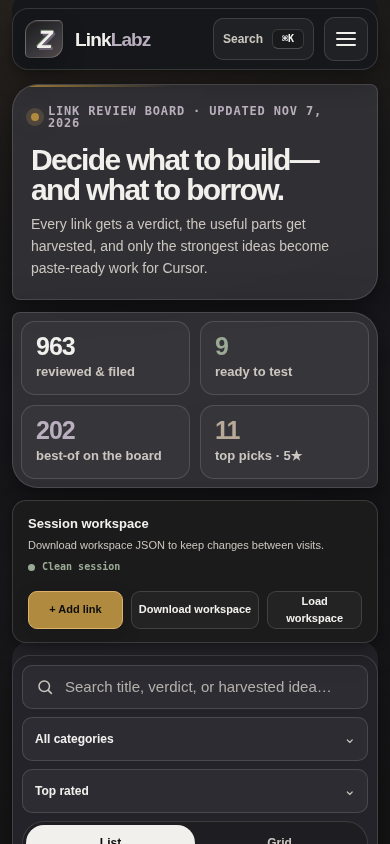
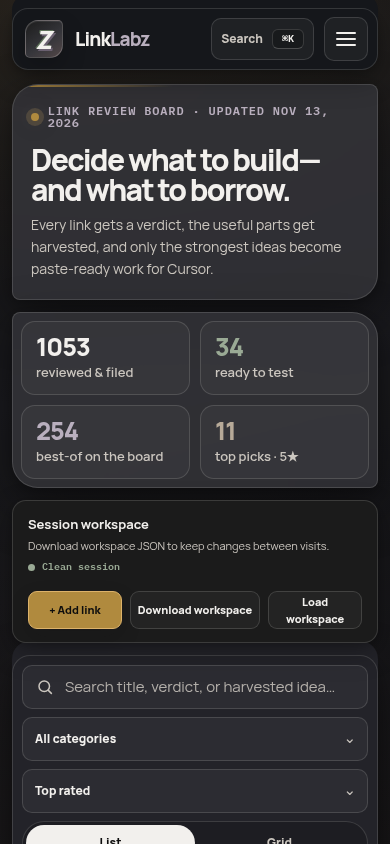
Round 23 screenshots + README stamp ?v=20261113-r23
Fresh desktop / raindrop-deck / mobile captures of the live round-23 board (254 cards); README image stamps bumped to ?v=20261113-r23. Also clears the round-22 screenshot backlog (blocked then by the platform file-write fault).

diff --git a/README.md b/README.md
@@ -9,7 +9,7 @@
 
 **Live preview:** https://agentzlab.github.io/LinkLabz/
 
-![LinkLabz — the review board, dark mode](assets/screenshot.png?v=20261109-r21)
+![LinkLabz — the review board, dark mode](assets/screenshot.png?v=20261113-r23)
 
 ## What's inside
 
@@ -26,11 +26,11 @@ LinkLabz is Jon's visual link review board — a single-page app for working thr
 
 ## Screenshots
 
-![Raindrop keeper deck](assets/screenshot-raindrop.png?v=20261109-r21)
+![Raindrop keeper deck](assets/screenshot-raindrop.png?v=20261113-r23)
 
 *The Raindrop keeper deck — graded cards; click through for the full verdict and harvest notes.*
 
-![LinkLabz at phone width](assets/screenshot-mobile.png?v=202611070052)
+![LinkLabz at phone width](assets/screenshot-mobile.png?v=20261113-r23)
 
 *The board at phone width — the toolbar un-sticks on small screens so nothing jams.*
 
